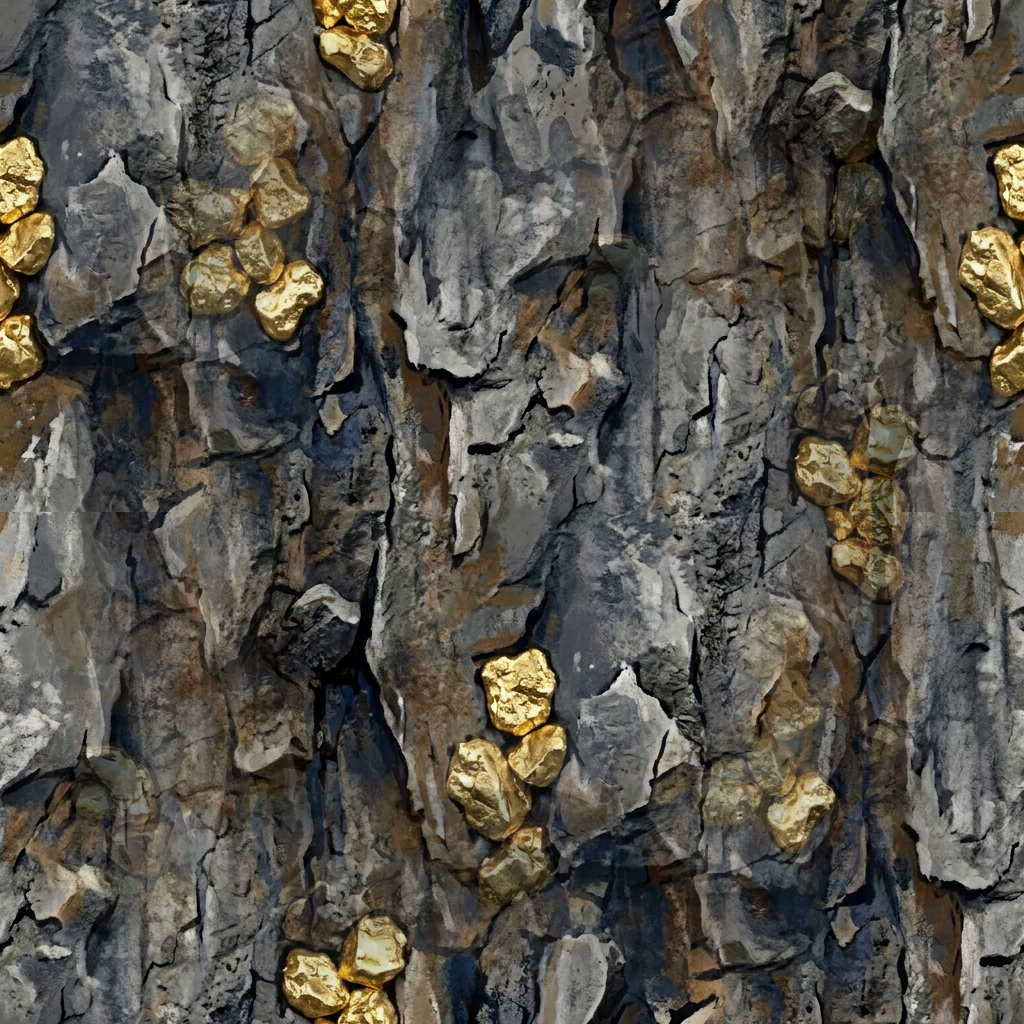
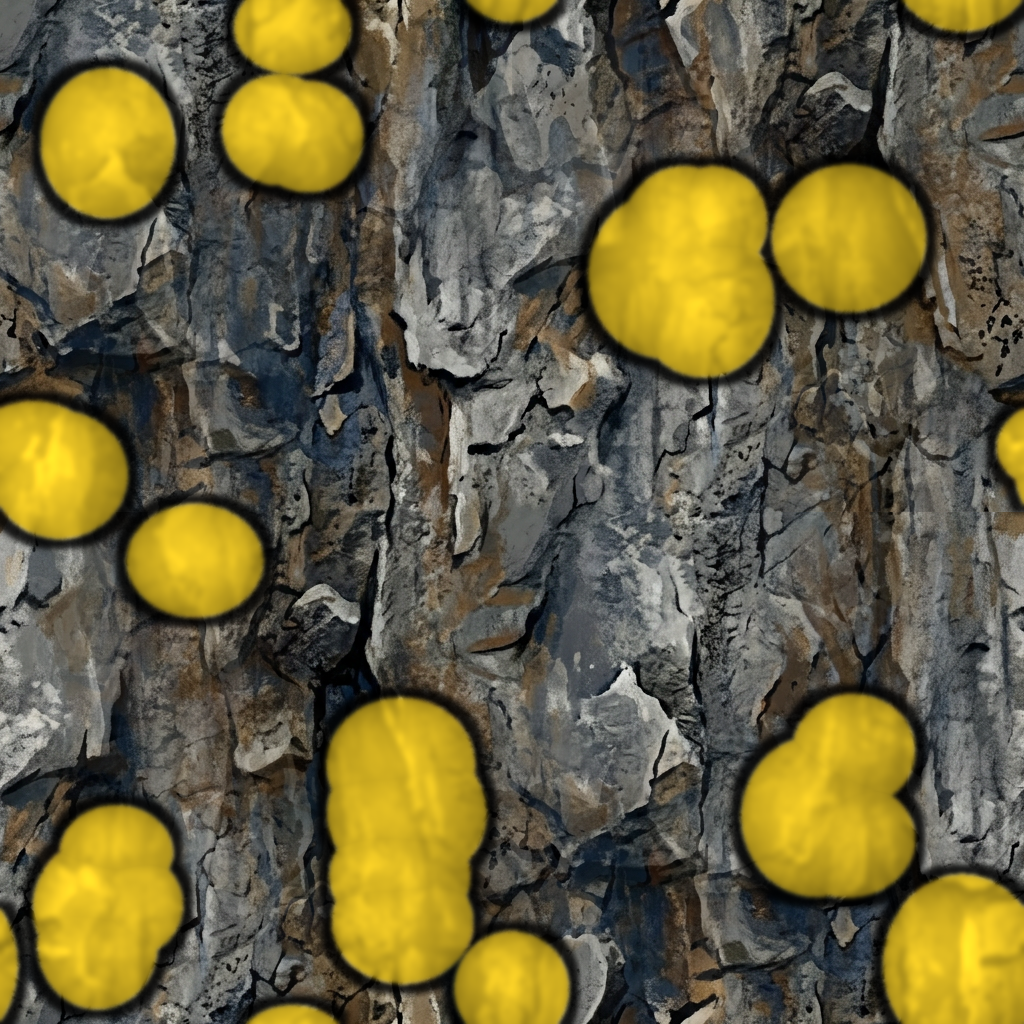
Ores you can see: bold drawn ore clusters on the painted stone, and more ammo from coal, iron and gold
The painted ores' nuggets were too small to survive shrinking to 32 pixels. mkblockart now draws chunky lumps in
each ore's colour (dome-lit, dark outline, wrapping so faces still tile) on the painted stone. Coal drops 4 clips
(was 3), iron 3 shells (was 2), gold 2 (was 1).

diff --git a/tools/mkblockart.py b/tools/mkblockart.py
@@ -86,6 +86,52 @@ def leaf_holes(a, frac=0.32):
     return np.concatenate([a, alpha[..., None]], -1)
 
 
+ORES = {  # nugget colour
+    'coal_ore': (22, 22, 24), 'iron_ore': (222, 138, 78), 'gold_ore': (255, 214, 40), 'redstone_ore': (235, 28, 22),
+    'lapis_ore': (70, 110, 255), 'diamond_ore': (105, 245, 240)}
+
+
+def bold_ore(stone, col, seed, clusters=6):
+    """The (seamless) stone with clusters of chunky ore lumps drawn on: each lump a rounded blob in the ore's colour,
+    lit like a dome from the upper left over the stone's own light and shade, with a dark outline. The painted
+    ores' nuggets were too small to survive shrinking to 32 pixels; these come out 5-7 pixels across. Lumps wrap
+    round the edges, so the face still tiles."""
+    from PIL import ImageFilter
+    rnd = np.random.default_rng(seed)
+    yy, xx = np.mgrid[0:N, 0:N].astype(np.float32)
+    nug = np.zeros((N, N), np.float32)
+    dome = np.zeros((N, N), np.float32)
+    # clusters spread evenly: one per cell of a jittered grid
+    cells = [(i, j) for i in range(3) for j in range(3)]
+    rnd.shuffle(cells)
+    for ci, cj in cells[:clusters]:
+        cx, cy = (ci + rnd.uniform(0.2, 0.8)) * N / 3, (cj + rnd.uniform(0.2, 0.8)) * N / 3
+        for _ in range(rnd.integers(3, 6)):
+            px, py = cx + rnd.normal(0, 70), cy + rnd.normal(0, 70)
+            r = rnd.uniform(52, 80)
+            dx = (xx - px + N / 2) % N - N / 2
+            dy = (yy - py + N / 2) % N - N / 2
+            d = np.sqrt((dx / r) ** 2 + (dy / (r * rnd.uniform(0.75, 1.15))) ** 2)
+            inside = d < 1
+            nug = np.maximum(nug, inside.astype(np.float32))
+            # dome light: brighter toward the upper left of each lump
+            h = np.clip(1 - d, 0, 1) ** 0.5 * (0.6 - 0.4 * (dx + dy) / (2 * r))
+            dome = np.maximum(dome, h * inside)
+    soft = lambda m, r: np.asarray(Image.fromarray((np.clip(m, 0, 1) * 255).astype(np.uint8)).filter(
+        ImageFilter.GaussianBlur(r)), np.float32) / 255
+    nug = soft(nug, 2)
+    ring = np.clip(soft(np.asarray(Image.fromarray((nug * 255).astype(np.uint8)).filter(ImageFilter.MaxFilter(21)),
+                                   np.float32) / 255, 2) - nug, 0, 1)
+    lum = soft(stone.mean(2) / 255, 3)[..., None]
+    shade = (0.45 + 0.5 * lum + 0.55 * dome[..., None])
+    if col.mean() < 60:  # coal: black, with grey glints where the light catches it
+        paint = col + np.array([150, 150, 160], np.float32) * np.clip(dome[..., None] - 0.45, 0, 1) * 2.5
+    else:
+        paint = col * shade
+    out = stone * (1 - 0.85 * ring[..., None])
+    return out * (1 - nug[..., None]) + paint * nug[..., None]
+
+
 def save(a, name):
     Image.fromarray(np.clip(a, 0, 255).astype(np.uint8)).save(os.path.join(ROOT, name + '.png'))
     print('art/blocks/%s.png' % name)
@@ -99,17 +145,11 @@ def main():
             if name == 'grass_top':  # its bare patches tile into camouflage: pull toward an even green, softer
                 done[name] = grassify(done[name])
             save(leaf_holes(done[name]) if name == 'leaves' else done[name], name)
-    # coal's black seams vanish against dark stone once small: find them (where the ore differs from the stone it
-    # was painted from) and push them to a glossy black with the odd glint
-    if 'coal_ore' in done and 'stone' in done:
-        diff = np.abs(load('coal_ore') - load('stone')).mean(2)
-        m = np.clip((diff - 18) / 30, 0, 1)
-        from PIL import ImageFilter
-        m = np.asarray(Image.fromarray((m * 255).astype(np.uint8)).filter(ImageFilter.MaxFilter(9))
-                       .filter(ImageFilter.GaussianBlur(4)), np.float32)[..., None] / 255
-        c = load('coal_ore')
-        coal = 10 + 0.15 * c
-        save(seamless(c * (1 - m) + coal * m), 'coal_ore')  # darken in the painting's own frame, then tile
+    # Ores: the painted ones' nuggets were too small to read once shrunk to 32 pixels, so they're drawn here, big
+    # and bold, on the painted stone (the fal ore paintings stay in art/blocks/fal for reference).
+    for k, (name, col) in enumerate(ORES.items()):
+        if name in done and 'stone' in done:
+            save(bold_ore(done['stone'], np.array(col, np.float32), 100 + k), name)
 
     for name in KEYED:
         if os.path.exists(os.path.join(RAW, name + '.png')):

diff --git a/engine/source/duke3d/src/emine.cpp b/engine/source/duke3d/src/emine.cpp
@@ -50,9 +50,9 @@ static int Emine_OreAmmo(int type, int *count)
     *count = 1;
     switch (type)
     {
-        case VW_COAL:     *count = 3; return AMMO;         // pistol clips (breaking coal takes most of one)
-        case VW_IRON:     *count = 2; return SHOTGUNAMMO;  // shotgun shells
-        case VW_GOLD:     return BATTERYAMMO;  // chaingun ammo
+        case VW_COAL:     *count = 4; return AMMO;         // pistol clips (breaking coal takes most of one)
+        case VW_IRON:     *count = 3; return SHOTGUNAMMO;  // shotgun shells
+        case VW_GOLD:     *count = 2; return BATTERYAMMO;  // chaingun ammo
         case VW_REDSTONE: return HBOMBAMMO;    // pipe bombs
         case VW_LAPIS:    return FREEZEAMMO;   // freeze thrower
         case VW_DIAMOND:  return RPGAMMO;      // rockets
